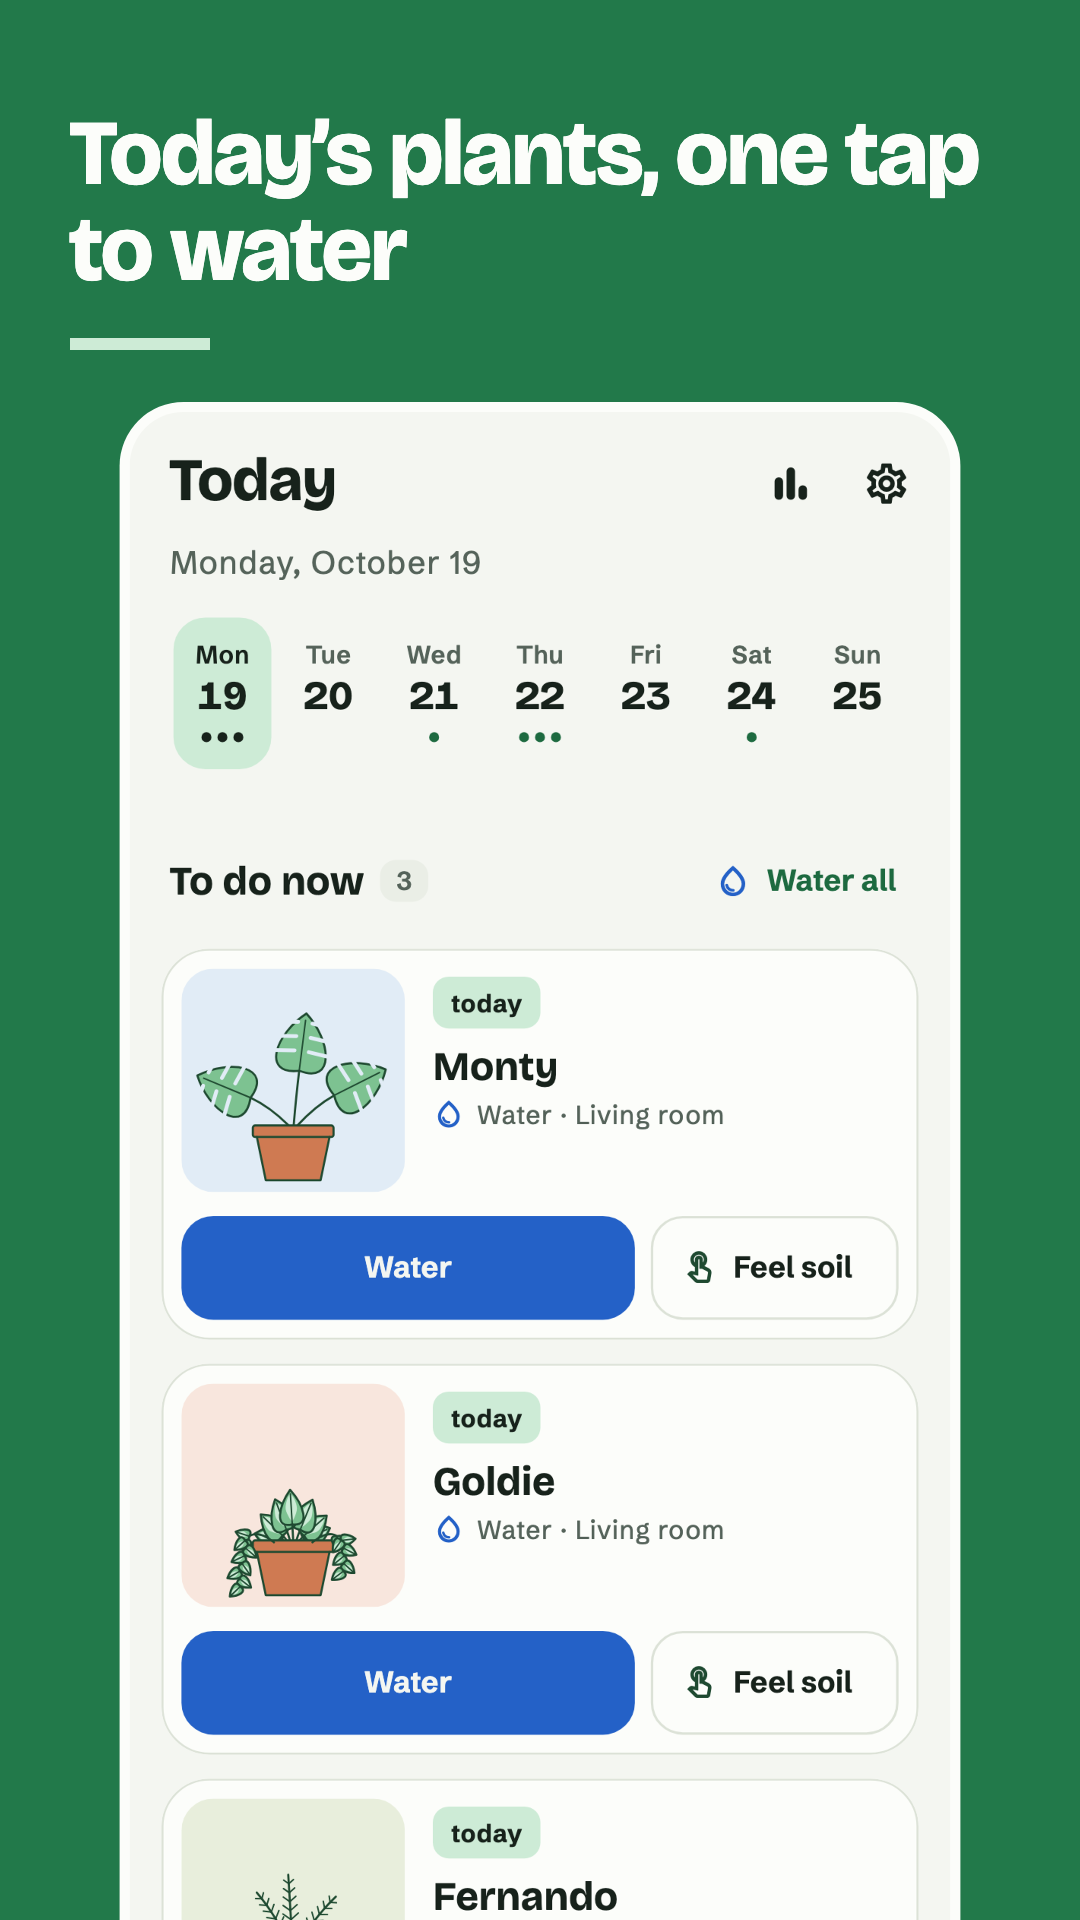
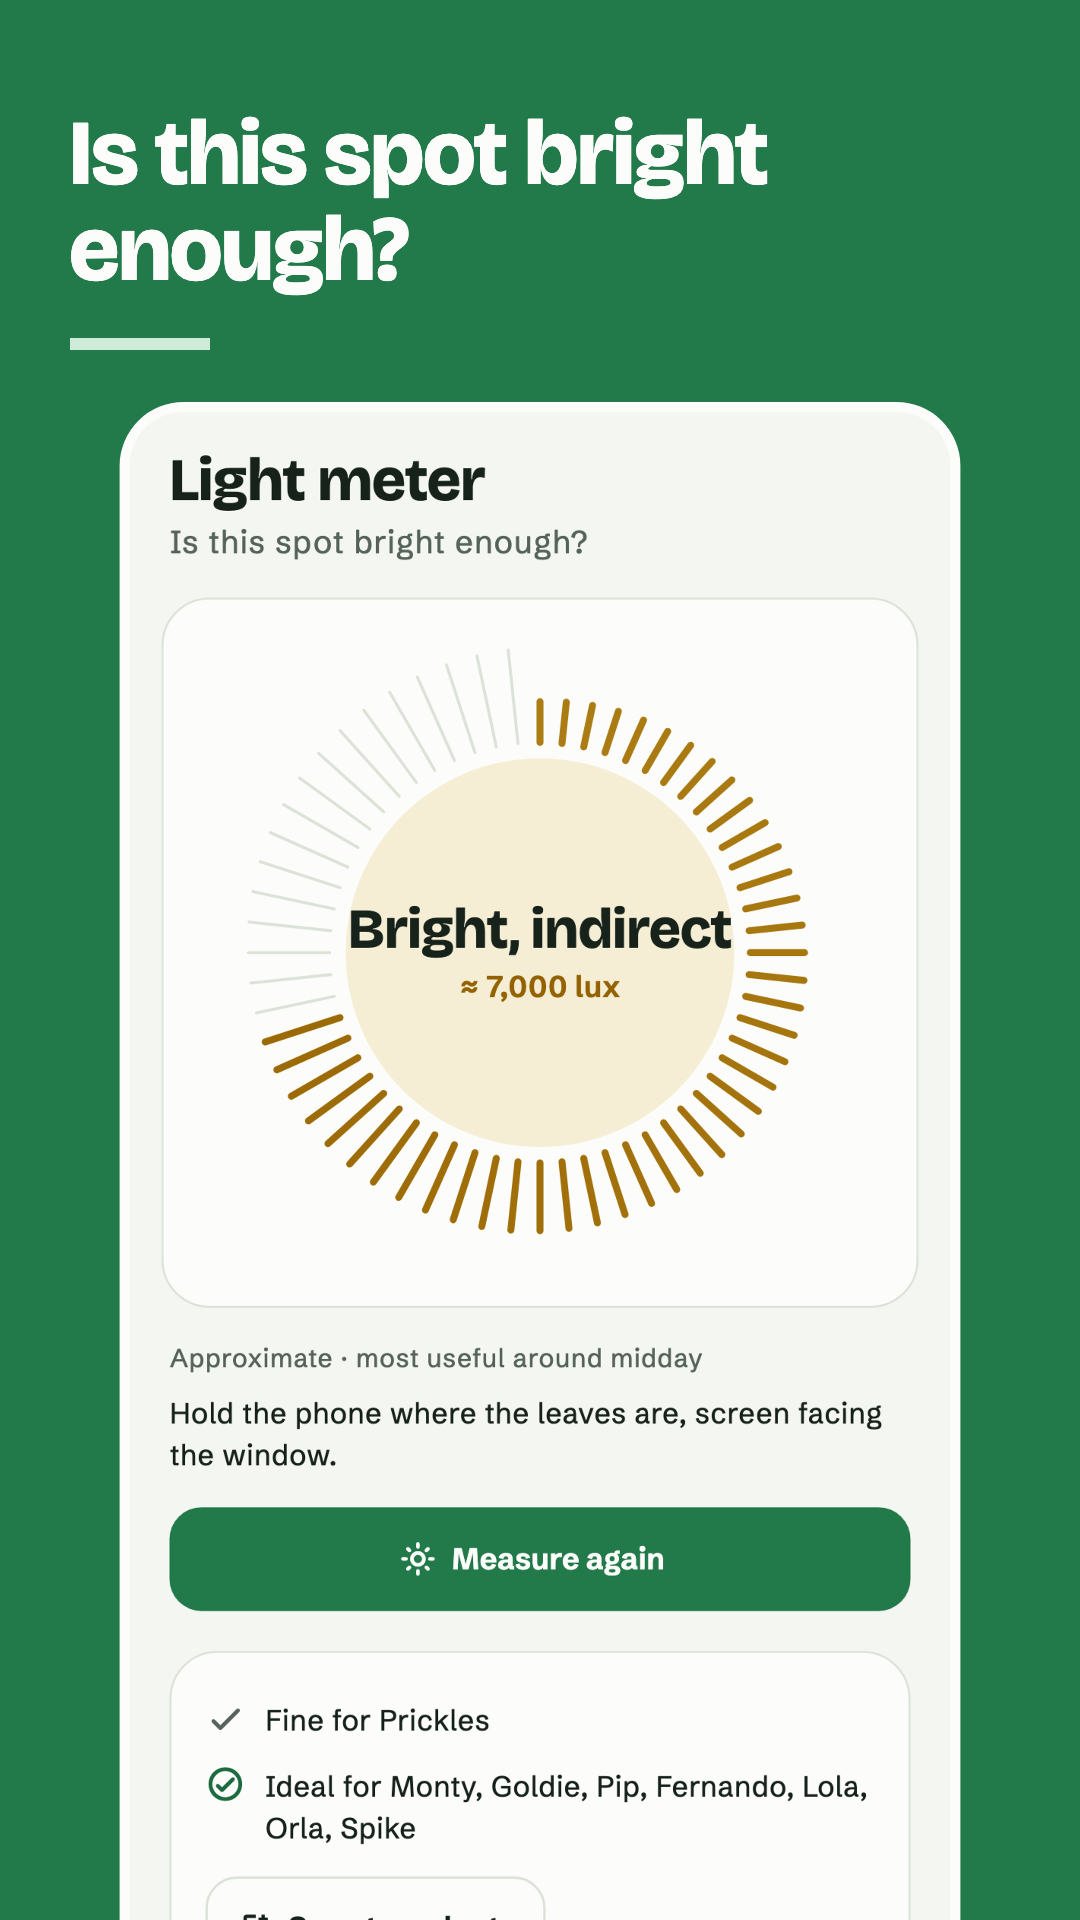
Publish all from main@28287188 (site/publish.sh, by hand)

diff --git a/index.html b/index.html
@@ -94,16 +94,16 @@ footer{margin:3rem 0 1rem;padding-top:1rem;border-top:1px solid var(--line);colo
 <ul class="shelf">
 <li style="--i:0"><a class="app" href="apps/cellwise/"><span class="info"><img class="icon" src="apps/cellwise/icon.png" alt="" width="88" height="88"><b>Cellwise – Nonogram</b><span>Picture logic puzzles that never need guessing. Colour and classic nonograms.</span><span class="stamp stamp-review">In review at Google Play</span></span><span class="fan"><img src="apps/cellwise/shot2.png" alt="" width="1080" height="1920" loading="lazy"><img src="apps/cellwise/shot1.png" alt="" width="1080" height="1920" loading="lazy"><img src="apps/cellwise/shot3.png" alt="" width="1080" height="1920" loading="lazy"></span></a></li>
 <li style="--i:1"><a class="app" href="apps/leaftag/"><span class="info"><img class="icon" src="apps/leaftag/icon.png" alt="" width="88" height="88"><b>Leaftag</b><span>Plant watering schedules that learn from your soil checks. Light meter included.</span><span class="stamp stamp-review">In review at Google Play</span></span><span class="fan"><img src="apps/leaftag/shot2.png" alt="" width="1080" height="1920" loading="lazy"><img src="apps/leaftag/shot1.png" alt="" width="1080" height="1920" loading="lazy"><img src="apps/leaftag/shot3.png" alt="" width="1080" height="1920" loading="lazy"></span></a></li>
+<li style="--i:2"><a class="app" href="apps/quillmark/"><span class="info"><img class="icon" src="apps/quillmark/icon.png" alt="" width="88" height="88"><b>Quillmark – Sign &amp; Initial</b><span>Sign, initial and stamp PDFs on your phone. No account, no uploads.</span><span class="stamp stamp-review">In review at Google Play</span></span><span class="fan"><img src="apps/quillmark/shot2.png" alt="" width="1080" height="1920" loading="lazy"><img src="apps/quillmark/shot1.png" alt="" width="1080" height="1920" loading="lazy"><img src="apps/quillmark/shot3.png" alt="" width="1080" height="1920" loading="lazy"></span></a></li>
 </ul></section>
 <section><h2>Coming soon</h2>
 <ul class="shelf">
 <li style="--i:0"><a class="app" href="apps/dustronauts/"><span class="info"><img class="icon" src="apps/dustronauts/icon.png" alt="" width="88" height="88"><b>Dustronauts</b><span>Sweep the Moon clean with a tiny duster, then robots, rides and a whole base.</span><span class="stamp stamp-testing">In closed testing</span></span><span class="fan"><img src="apps/dustronauts/shot2.png" alt="" width="1080" height="1920" loading="lazy"><img src="apps/dustronauts/shot1.png" alt="" width="1080" height="1920" loading="lazy"><img src="apps/dustronauts/shot3.png" alt="" width="1080" height="1920" loading="lazy"></span></a></li>
 <li style="--i:1"><a class="app" href="apps/fartchaos/"><span class="info"><img class="icon" src="apps/fartchaos/icon.png" alt="" width="88" height="88"><b>Fart Chaos</b><span>Race tubs powered by toots! Wi-Fi party races with friends, bots fill in.</span><span class="stamp stamp-testing">In closed testing</span></span><span class="fan"><img src="apps/fartchaos/shot2.png" alt="" width="1080" height="1920" loading="lazy"><img src="apps/fartchaos/shot1.png" alt="" width="1080" height="1920" loading="lazy"><img src="apps/fartchaos/shot3.png" alt="" width="1080" height="1920" loading="lazy"></span></a></li>
 <li style="--i:2"><a class="app" href="apps/pupstamp/"><span class="info"><img class="icon" src="apps/pupstamp/icon.png" alt="" width="88" height="88"><b>Pupstamp</b><span>Puppy training with a dog clicker, 5-minute card lessons and a 21-day plan</span><span class="stamp stamp-testing">In closed testing</span></span><span class="fan"><img src="apps/pupstamp/shot2.png" alt="" width="1080" height="1920" loading="lazy"><img src="apps/pupstamp/shot1.png" alt="" width="1080" height="1920" loading="lazy"><img src="apps/pupstamp/shot3.png" alt="" width="1080" height="1920" loading="lazy"></span></a></li>
-<li style="--i:3"><a class="app" href="apps/quillmark/"><span class="info"><img class="icon" src="apps/quillmark/icon.png" alt="" width="88" height="88"><b>Quillmark – Sign &amp; Initial</b><span>Sign, initial and stamp PDFs on your phone. No account, no uploads.</span><span class="stamp stamp-testing">In closed testing</span></span><span class="fan"><img src="apps/quillmark/shot2.png" alt="" width="1080" height="1920" loading="lazy"><img src="apps/quillmark/shot1.png" alt="" width="1080" height="1920" loading="lazy"><img src="apps/quillmark/shot3.png" alt="" width="1080" height="1920" loading="lazy"></span></a></li>
-<li style="--i:4"><a class="app" href="apps/slipway/"><span class="info"><img class="icon" src="apps/slipway/icon.png" alt="" width="88" height="88"><b>Slipway – Arrow Escape Puzzle</b><span>Tap each arrow off the board, clear it and print a picture for your album.</span><span class="stamp stamp-testing">In closed testing</span></span><span class="fan"><img src="apps/slipway/shot2.png" alt="" width="1080" height="1920" loading="lazy"><img src="apps/slipway/shot1.png" alt="" width="1080" height="1920" loading="lazy"><img src="apps/slipway/shot3.png" alt="" width="1080" height="1920" loading="lazy"></span></a></li>
-<li style="--i:5"><a class="app" href="apps/tithiwise/"><span class="info"><img class="icon" src="apps/tithiwise/icon.png" alt="" width="88" height="88"><b>Tithiwise</b><span>Tithi, choghadiya and festival dates for your own city and sunrise, offline</span><span class="stamp stamp-testing">In closed testing</span></span><span class="fan"><img src="apps/tithiwise/shot2.png" alt="" width="1080" height="1920" loading="lazy"><img src="apps/tithiwise/shot1.png" alt="" width="1080" height="1920" loading="lazy"><img src="apps/tithiwise/shot3.png" alt="" width="1080" height="1920" loading="lazy"></span></a></li>
-<li style="--i:6"><a class="app" href="apps/unskein/"><span class="info"><img class="icon" src="apps/unskein/icon.png" alt="" width="88" height="88"><b>Unskein – Rope Untangle Puzzle</b><span>Tangle rope puzzle and brain teaser: untie wool knots, a Daily knot, no timers.</span><span class="stamp stamp-testing">In closed testing</span></span><span class="fan"><img src="apps/unskein/shot2.png" alt="" width="1080" height="1920" loading="lazy"><img src="apps/unskein/shot1.png" alt="" width="1080" height="1920" loading="lazy"><img src="apps/unskein/shot3.png" alt="" width="1080" height="1920" loading="lazy"></span></a></li>
+<li style="--i:3"><a class="app" href="apps/slipway/"><span class="info"><img class="icon" src="apps/slipway/icon.png" alt="" width="88" height="88"><b>Slipway – Arrow Escape Puzzle</b><span>Tap each arrow off the board, clear it and print a picture for your album.</span><span class="stamp stamp-testing">In closed testing</span></span><span class="fan"><img src="apps/slipway/shot2.png" alt="" width="1080" height="1920" loading="lazy"><img src="apps/slipway/shot1.png" alt="" width="1080" height="1920" loading="lazy"><img src="apps/slipway/shot3.png" alt="" width="1080" height="1920" loading="lazy"></span></a></li>
+<li style="--i:4"><a class="app" href="apps/tithiwise/"><span class="info"><img class="icon" src="apps/tithiwise/icon.png" alt="" width="88" height="88"><b>Tithiwise</b><span>Tithi, choghadiya and festival dates for your own city and sunrise, offline</span><span class="stamp stamp-testing">In closed testing</span></span><span class="fan"><img src="apps/tithiwise/shot2.png" alt="" width="1080" height="1920" loading="lazy"><img src="apps/tithiwise/shot1.png" alt="" width="1080" height="1920" loading="lazy"><img src="apps/tithiwise/shot3.png" alt="" width="1080" height="1920" loading="lazy"></span></a></li>
+<li style="--i:5"><a class="app" href="apps/unskein/"><span class="info"><img class="icon" src="apps/unskein/icon.png" alt="" width="88" height="88"><b>Unskein – Rope Untangle Puzzle</b><span>Tangle rope puzzle and brain teaser: untie wool knots, a Daily knot, no timers.</span><span class="stamp stamp-testing">In closed testing</span></span><span class="fan"><img src="apps/unskein/shot2.png" alt="" width="1080" height="1920" loading="lazy"><img src="apps/unskein/shot1.png" alt="" width="1080" height="1920" loading="lazy"><img src="apps/unskein/shot3.png" alt="" width="1080" height="1920" loading="lazy"></span></a></li>
 </ul></section>
 <footer>Contact: <a href="mailto:infivlabs@gmail.com">infivlabs@gmail.com</a></footer>
 

diff --git a/developers/index.html b/developers/index.html
@@ -99,7 +99,7 @@ footer{margin:3rem 0 1rem;padding-top:1rem;border-top:1px solid var(--line);colo
 <tr style="--i:9"><td><img class="icon" src="/apps/proofsheet/icon.png" alt="" width="40" height="40"></td><td><a href="/apps/proofsheet/">Proofsheet</a></td><td>A06</td><td>Not released</td><td><a href="/apps/proofsheet/privacy/">Privacy</a> <a href="/apps/proofsheet/terms/">Terms</a></td></tr>
 <tr style="--i:10"><td><img class="icon" src="/apps/pupstamp/icon.png" alt="" width="40" height="40"></td><td><a href="/apps/pupstamp/">Pupstamp</a></td><td>B29</td><td><span class="stamp stamp-testing">In closed testing</span></td><td><a href="/apps/pupstamp/privacy/">Privacy</a> <a href="/apps/pupstamp/terms/">Terms</a></td></tr>
 <tr style="--i:11"><td><img class="icon" src="/apps/quadrille/icon.png" alt="" width="40" height="40"></td><td><a href="/apps/quadrille/">Quadrille</a></td><td>A14</td><td>Not released</td><td><a href="/apps/quadrille/privacy/">Privacy</a> <a href="/apps/quadrille/terms/">Terms</a></td></tr>
-<tr style="--i:12"><td><img class="icon" src="/apps/quillmark/icon.png" alt="" width="40" height="40"></td><td><a href="/apps/quillmark/">Quillmark – Sign &amp; Initial</a></td><td>A05</td><td><span class="stamp stamp-testing">In closed testing</span></td><td><a href="/apps/quillmark/privacy/">Privacy</a> <a href="/apps/quillmark/terms/">Terms</a></td></tr>
+<tr style="--i:12"><td><img class="icon" src="/apps/quillmark/icon.png" alt="" width="40" height="40"></td><td><a href="/apps/quillmark/">Quillmark – Sign &amp; Initial</a></td><td>A05</td><td><span class="stamp stamp-review">In review at Google Play</span></td><td><a href="/apps/quillmark/privacy/">Privacy</a> <a href="/apps/quillmark/terms/">Terms</a></td></tr>
 <tr style="--i:13"><td><img class="icon" src="/apps/runstarter/icon.png" alt="" width="40" height="40"></td><td><a href="/apps/runstarter/">Runstarter</a></td><td>B17</td><td>Not released</td><td><a href="/apps/runstarter/privacy/">Privacy</a> <a href="/apps/runstarter/terms/">Terms</a></td></tr>
 <tr style="--i:14"><td><img class="icon" src="/apps/slipway/icon.png" alt="" width="40" height="40"></td><td><a href="/apps/slipway/">Slipway – Arrow Escape Puzzle</a></td><td>E01</td><td><span class="stamp stamp-testing">In closed testing</span></td><td><a href="/apps/slipway/privacy/">Privacy</a> <a href="/apps/slipway/terms/">Terms</a></td></tr>
 <tr style="--i:15"><td><img class="icon" src="/apps/stampproof/icon.png" alt="" width="40" height="40"></td><td><a href="/apps/stampproof/">StampProof – Timestamp Camera</a></td><td>E10</td><td>Not released</td><td><a href="/apps/stampproof/privacy/">Privacy</a> <a href="/apps/stampproof/terms/">Terms</a></td></tr>

diff --git a/apps/quillmark/index.html b/apps/quillmark/index.html
@@ -83,7 +83,7 @@ footer{margin:3rem 0 1rem;padding-top:1rem;border-top:1px solid var(--line);colo
 <img class="icon" src="icon.png" alt="" width="96" height="96">
 <h1>Quillmark – Sign &amp; Initial</h1>
 <p class="lead">Sign, initial and stamp PDFs on your phone. No account, no uploads.</p>
-<p><span class="stamp stamp-testing">In closed testing</span></p>
+<p><span class="stamp stamp-review">In review at Google Play</span></p>
 <p class="links"><a href="privacy/">Privacy policy</a> · <a href="terms/">Terms of use</a></p>
 <p class="links">Support: <a href="mailto:infivlabs@gmail.com">infivlabs@gmail.com</a></p>
 </body>
